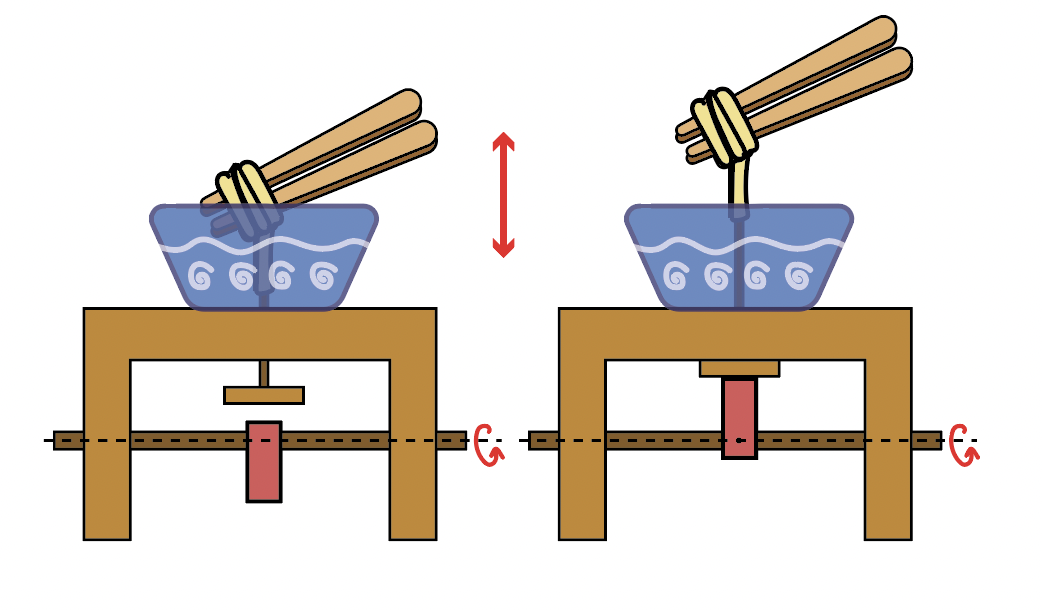
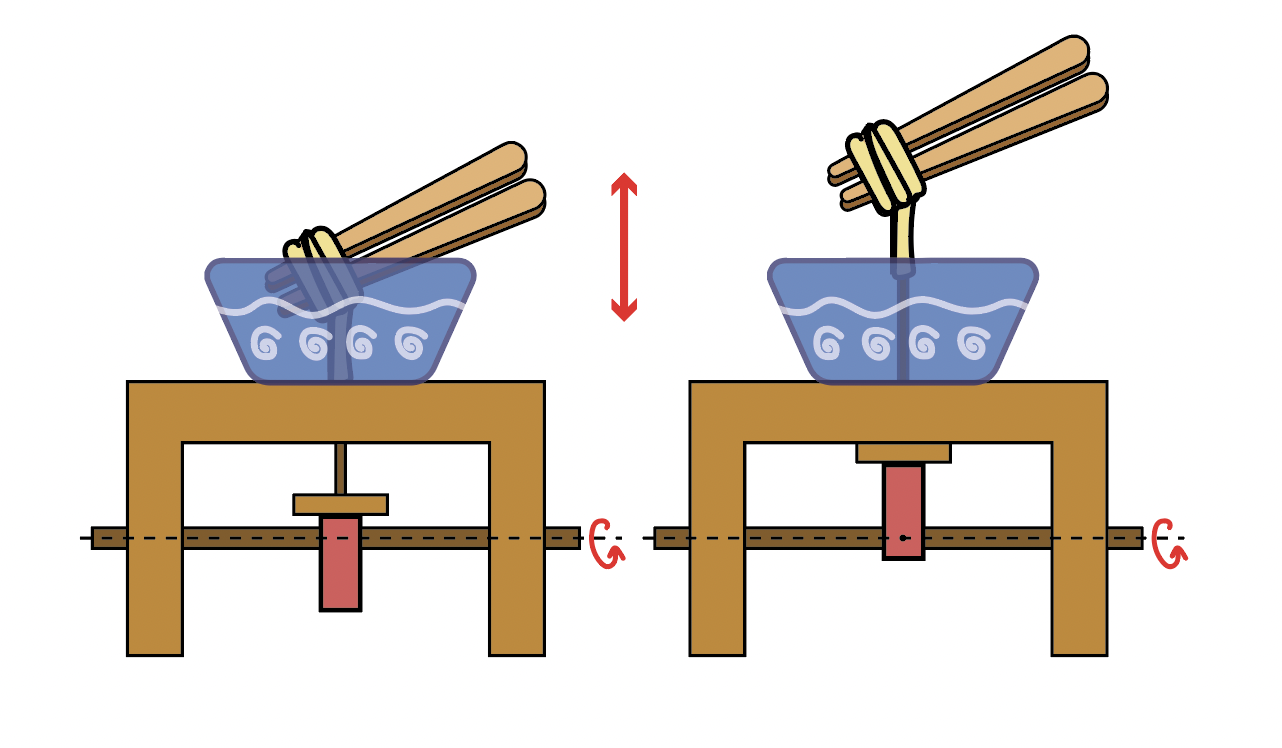
update lab4; fix typos in lab2

Changed region(s): [[0.0307, 0.0, 0.952, 0.9033], [0.4607, 0.218, 0.4914, 0.4361]]

diff --git a/labs/beginner/lab4.html b/labs/beginner/lab4.html
@@ -501,7 +501,7 @@
                 <ol> 
                 
                 <li>Pick two of the mechanisms in the tables above (eg, CAM with a gear as two mechanisms)-- for the sake of time, we encourage you to not design linkages 
-                    unless you would really like to, but please consult with your mentos first.</li>
+                    unless you would really like to, but please consult with your mentors first.</li>
                 <li>Refer to the type of the output/input motion </li>
                     <li> Refer to the table section "applications in automata" to further understand how each mechanism looks like or is applied. 
                </li>
@@ -585,10 +585,25 @@ After you ask for instructor check-off, refer to the two sections with mechanism
                 
                 <hr> 
                 
-                    <h4>Part (4): Designing CAMs by mechanical principles (5 minutes)</h4>
+                    <h4>Part (4): Designing CAMs by mechanical principles (20 minutes)</h4>
 
                 
-                <p>CAMs affect two main aspects: speed and height. When considering height, two factors play a role: the <strong>shape of the CAM</strong> and the <strong>location of the shaft</strong>. Let’s first focus on the shape of the CAM, assuming the shaft is positioned at the center.</p>
+                <p>CAMs affect two main aspects: 💨 speed and ↕ height, which you can design around. </p> 
+
+
+
+                
+                
+                <br> 
+                
+                
+                <h5> Designing CAM around Height:</h5>
+                
+               <p> When considering height, two factors play a role: the <strong>shape of the CAM</strong> and the <strong>location of the shaft</strong>. Let’s first focus on the shape of the CAM, assuming the shaft is positioned at the center, then change the shaft location.</p>
+
+
+                <br> 
+                <h5> 🔴 Part (A): CAM Shape</h5>
                 
                 
                                 <img src=media/CAM-height.png class="rounded mx-auto d-block img-fluid"> 
@@ -607,9 +622,93 @@ After you ask for instructor check-off, refer to the two sections with mechanism
 <p><strong>For example:</strong></p>
 <p>If you need a design to move up by 3 cm and the smaller radius (1) is 5 cm, the larger radius (2) should be <strong>8 cm</strong> (5 cm + 3 cm).</p>
 
-<p>The <strong>location of the shaft</strong> also affects height, but we will address this aspect later.</p>
+                
+                
+                <br> 
+                
+                CAMS can come in many shapes as you can see in <a href=""> Table-1</a>, like triangles, hearts, and stars. Let's
+                check your understanding now with a triangle CAM and the height difference corresponding to it.
+                
+                <br> <br> 
+                
+                <div class="alert alert-info" role="alert" style="background-color: #C94747; color: white;">
+
+               
+                       <img src=media/CAM-triangle.png class="rounded mx-auto d-block img-fluid"> 
+
+ 
+                    
+                        <h4>Checkoff [Check My Understanding]</h4>
+                     If I have a CAM in the shape of an equilateral triangle, how many heights does it have? Additionally, if I want the height to vary from 2 cm (h1) to 4 cm (h2), what would the side length of the triangle be?
+                    
+                    </div>  
+                
+                
+                
+<p>The <strong>location of the shaft</strong> also affects height. We will address this next.</p>
+                
+                
+                <hr> 
+                                <h5>  🔴 Part (B): CAM Shaft Location</h5>
+                
+
+
+
+                       <img src=media/off-center-CAM-circle.png class="rounded mx-auto d-block img-fluid"> 
+<ul>
+  <li><strong>Centered Shaft:</strong> A circular CAM with its shaft positioned at the center produces no height change in the CAM follower.</li>
+  <li><strong>Off-Center Shaft (Eccentric CAM):</strong> Moving the shaft off-center transforms the same circular CAM into an "eccentric CAM," which creates height variation.</li>
+  <li><strong>Application to Other Shapes:</strong> This principle applies to all CAM shapes, such as ellipses. Shifting the shaft from the geometric center introduces height changes, even in shapes that already produce height variation when centered.</li>
+</ul>
+                
+                
+                
+                <br> 
+                ⭐<b>Example</b>⭐: ramen noodles showing and hiding-- refer to <a href=""> Table-1</a> for more design refrences
+                
+                                             <img src=media/ramen-up-down.png class="rounded mx-auto d-block img-fluid"> 
+
+
+                <hr> 
+
+                <h5> Placement of CAM & Effect on Rotation/Speed:</h5>
+
+Assuming that a CAM is circular, and its shaft is in the center, what would happen if the CAM is right below the center of the follower? What if it's a bit away from the follower's center?
+                
+                
+            
+        <img src=media/CAM-position-rotation.png class="rounded mx-auto d-block img-fluid"> 
 
                 
+<p>To understand how a CAM affects a follower, let’s examine three scenarios:</p>
+
+<ol>
+  <li>
+    <strong>CAM Directly Below the Follower's Center (1):</strong>
+    <ul>
+      <li><strong>Circular CAM with Centered Shaft:</strong> No notable effects (may cause minor wobbling depending on constraints).</li>
+      <li><strong>Elliptical or Eccentric CAM:</strong> Produces a <em>change in height</em> only, with little to no rotation (possible slight wobble).</li>
+    </ul>
+  </li>
+  <li>
+    <strong>CAM Off-Center from the Follower ( 2 & 3):</strong>
+    <ul>
+      <li>The CAM causes <em>rotation</em> in the follower.</li>
+      <li>The farther the CAM is from the follower’s center, the easier it is to rotate the follower.</li>
+      <li><strong>Why?</strong> The torque principle: Torque increases with the distance to the pivot.</li>
+    </ul>
+  </li>
+  <li>
+    <strong>CAM Producing Both Height Change and Rotation:</strong>
+    <ul>
+      <li>If the CAM shape inherently produces height change (e.g., elliptical) and is placed off-center, it will result in both <em>rotation</em> and <em>height variation</em> simultaneously.</li>
+    </ul>
+  </li>
+</ol>
+      
+       <img src=media/CAM-position-rotation.png class="rounded mx-auto d-block img-fluid"> 
+
+     
                 
                 
                    <hr> 
